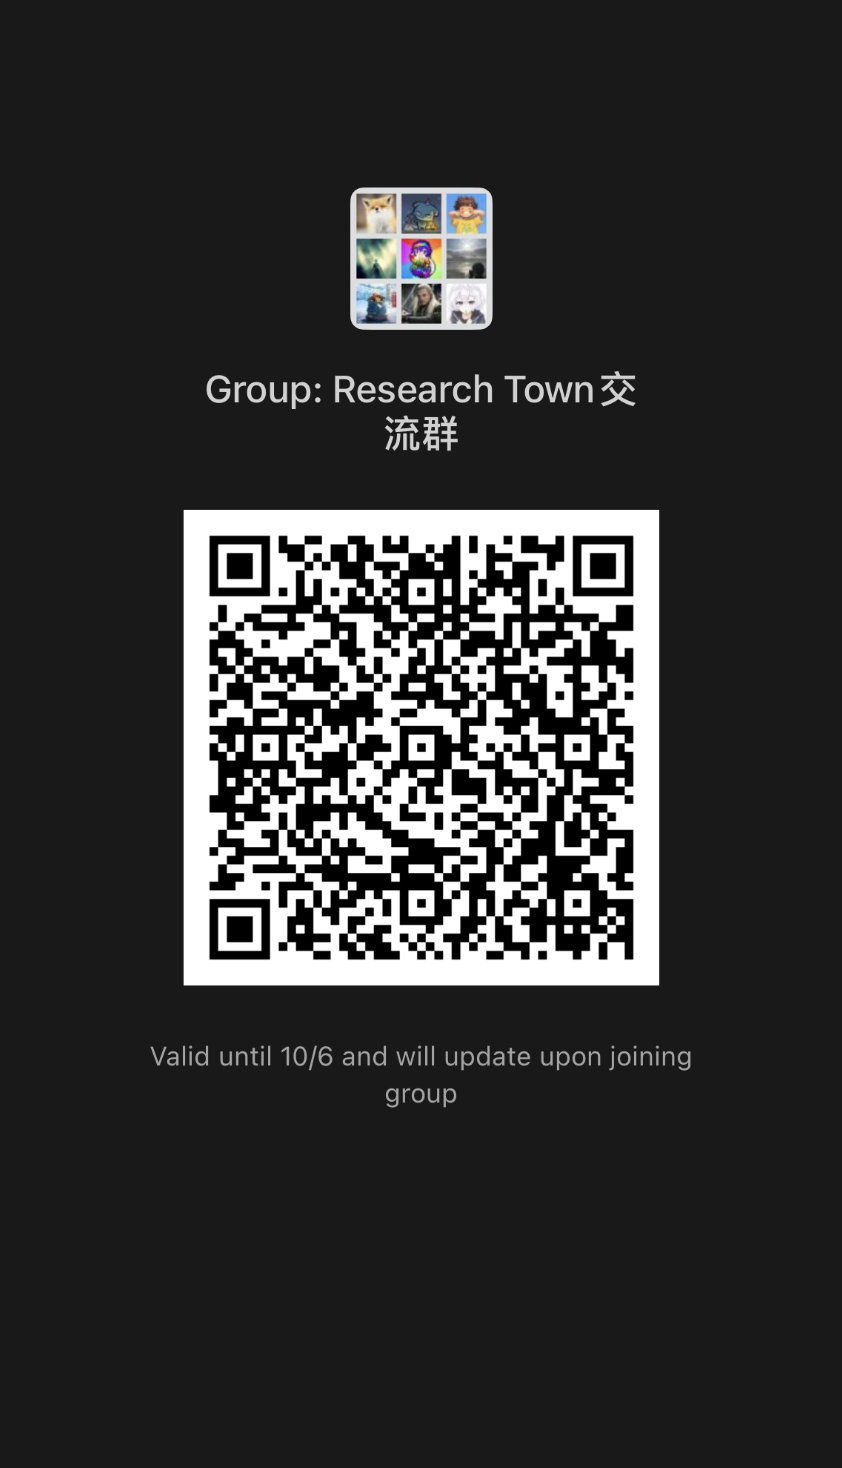
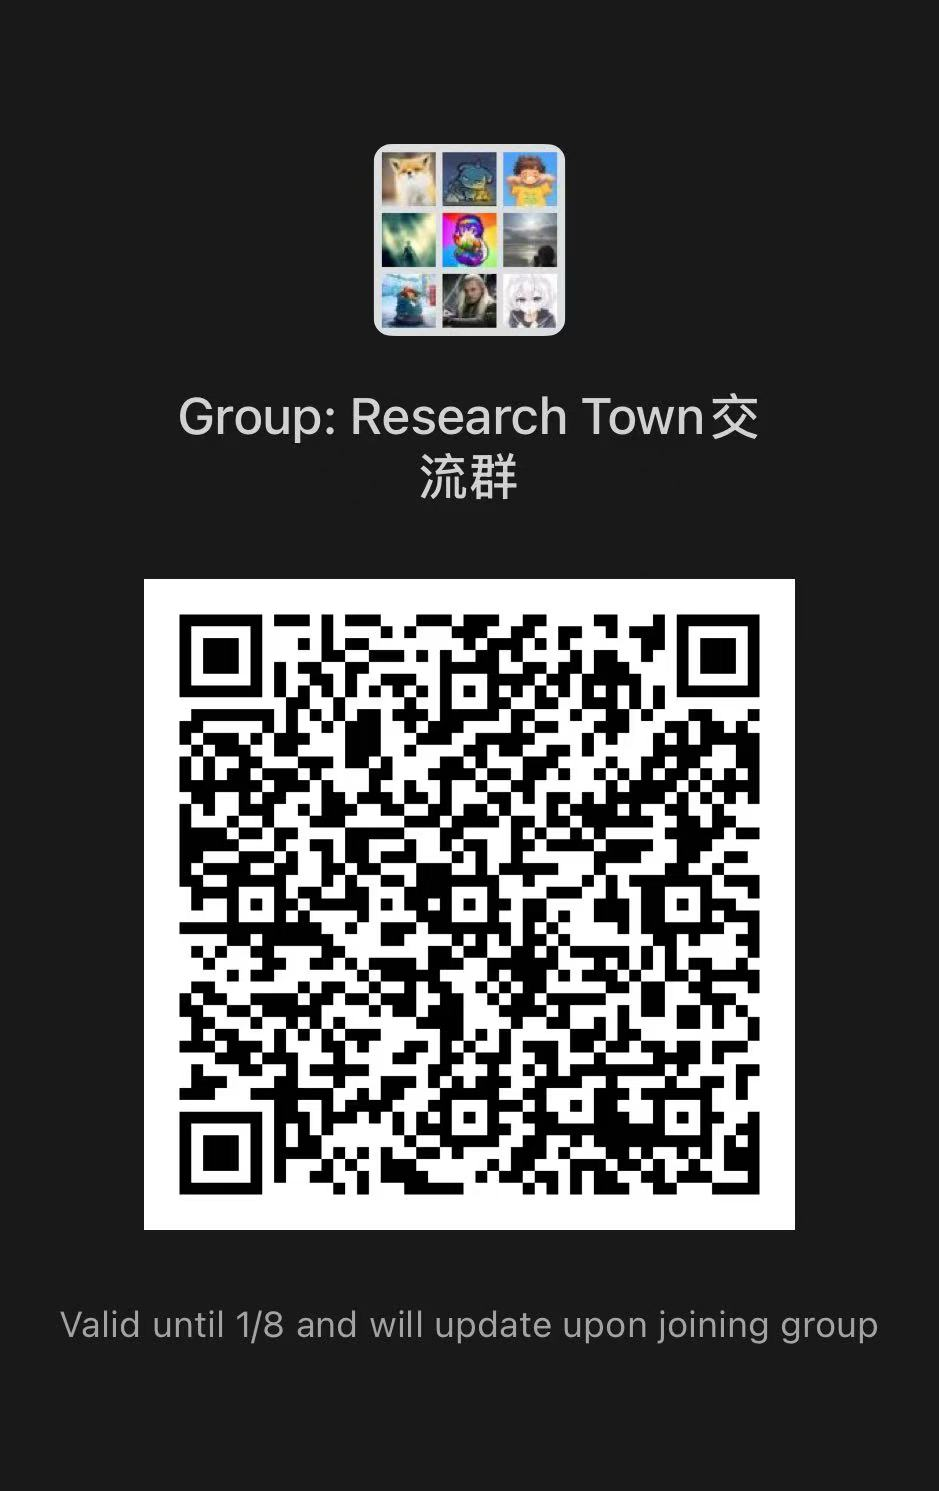
doc(link): update discord and wechat link (#966)
* update discord link

* update wechat

diff --git a/README.md b/README.md
@@ -9,7 +9,7 @@
 [![Python 3.10](https://img.shields.io/badge/python-%E2%89%A53.10-blue)](https://www.python.org/downloads/release/python-3109/)
 [![Dataset](https://img.shields.io/badge/%F0%9F%A4%97-ResearchBench-yellow)](https://huggingface.co/datasets/ulab-ai/research-bench)
 [![Arxiv](https://img.shields.io/badge/arXiv-ResearchTown-b31b1b)](https://arxiv.org/pdf/2412.17767)
-[![Discord](https://img.shields.io/badge/Discord-Join%20Us-7289da?logo=discord&logoColor=white)](https://discord.gg/TwXxGhMB)
+[![Discord](https://img.shields.io/badge/Discord-Join%20Us-7289da?logo=discord&logoColor=white)](https://discord.gg/9t9jtDDk)
 [![WeChat](https://img.shields.io/badge/WeChat-Join%20Us-09B83E?logo=wechat&logoColor=white)](assets/wechat.png)
 [![codecov](https://codecov.io/github/ulab-uiuc/research-town/graph/badge.svg?token=00LRQFX0QR)](https://codecov.io/github/ulab-uiuc/research-town)
 
